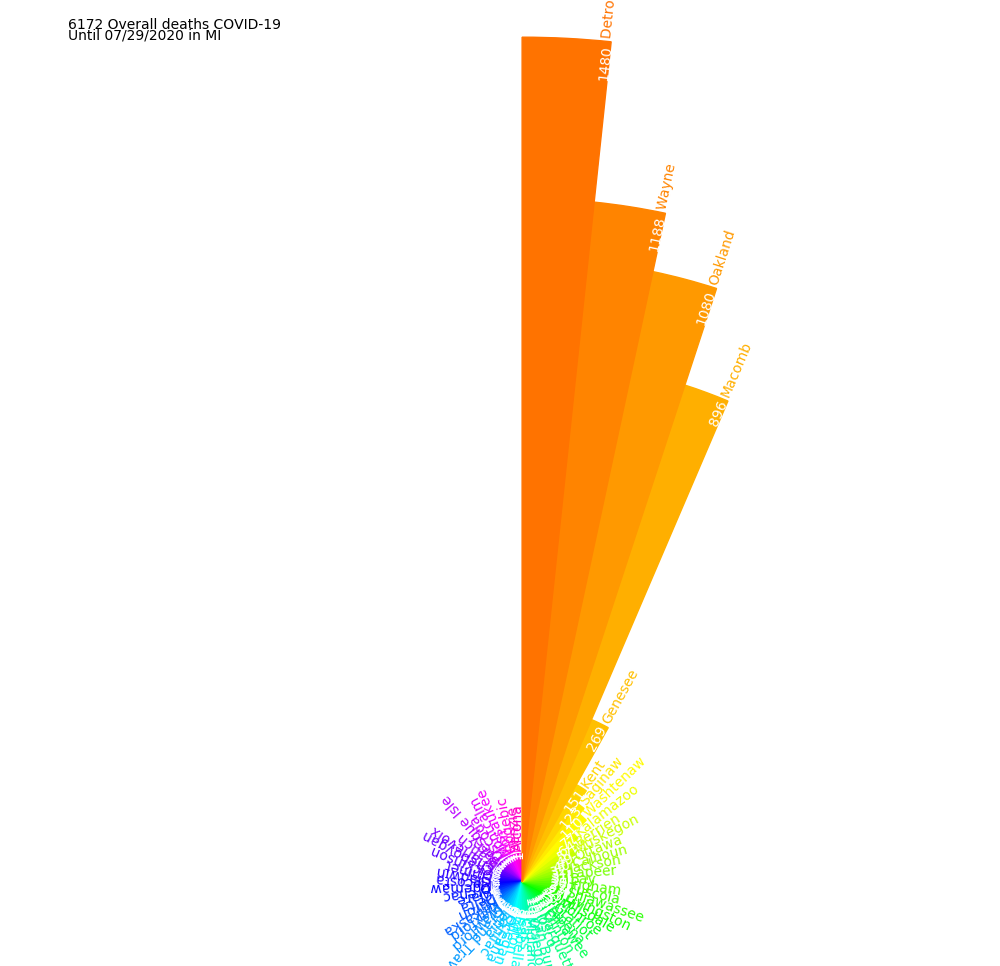
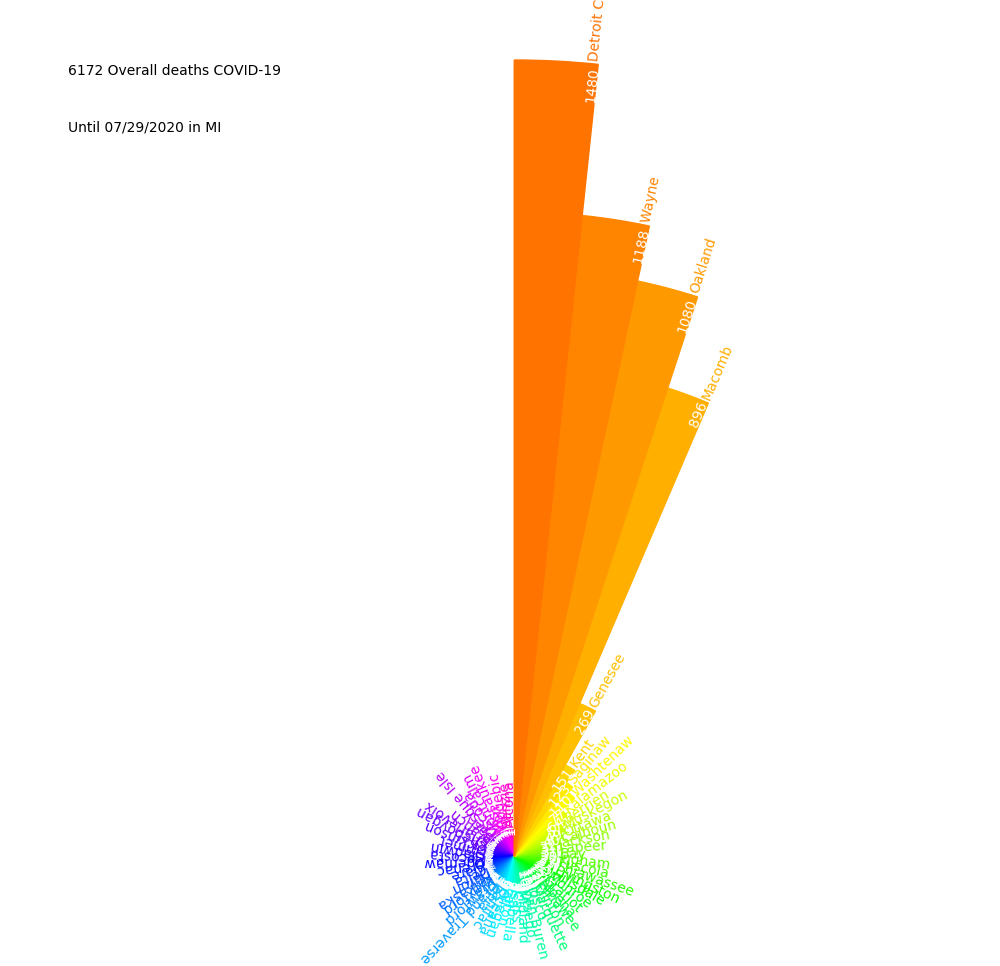
merge codes to predict, rainbow

Changed region(s): [[0.403, 0.0, 0.744, 1.0], [0.062, 0.0, 0.279, 0.0932], [0.062, 0.1242, 0.217, 0.1553]]

diff --git a/rainbowviz21.py b/rainbowviz21.py
@@ -69,6 +69,8 @@ class rainbowViz(object):
     #
     def infoShowRainbow(self, type_data, lst_data, save_file=None, date='', timeout=0):
         print('infoShowRainbow...', type_data)
+        if(len(lst_data) < 1): return
+        # prepare plot
         fig=plt.figure()
         ax=fig.add_subplot(111)
         fig.set_figheight(10)
@@ -80,7 +82,7 @@ class rainbowViz(object):
         # select colum
         if (type_data==3):col=2
         else : col=1
-        # clean list
+        # put into clean list
         l_d_clean = []
         l_max_v = 0
         l_counties = []
@@ -92,54 +94,65 @@ class rainbowViz(object):
             if(self.isRealCounty(a_case[0], l_counties)): pass
             else: continue
             l_d_clean.append(a_case)
-            if(int(a_case[col]) > l_max_v): l_max_v = int(a_case[col])
+            #if(int(a_case[col]) > l_max_v): l_max_v = int(a_case[col])
         n_total=0		
         for a_case in lst_data:
             if('Total' in a_case[0]): continue
             if('County' in a_case[0]): continue
             n_total += int(a_case[col])
-
-        l_max_v += 100 + 50  # base 50*2 + name 25*2
-        center_y = -(l_max_v/2 - 75)
-        l_max_v = (int(l_max_v / 50.0+1) * 50) / 2
         # sort list
         l_d_sort = sorted(l_d_clean, key=lambda k: int(k[col]))
         len_data = len(l_d_sort)
+        l_max_v = int(l_d_sort[len_data-1][col])
+        l_mid_v = int(l_d_sort[min(len_data/2+1, len_data-1)][col])
+        l_q1_v = int(l_d_sort[max(len_data/4, 0)][col])
+        l_q3_v = int(l_d_sort[max(len_data*3/4, 0)][col])
+        print('  1/4 values', l_q1_v, l_mid_v, l_q3_v, l_max_v)
+        center_y = -(l_max_v - l_mid_v) / 2
+        center_x = -(l_q3_v - l_q1_v) / 2
+
+        l_max_v += l_mid_v + 100 + 2*l_max_v/20  # base 50*2 + name 25*2
+        l_max_v = (int(float(l_max_v) / 50.0+1) * 50)  # round to 50
+        l_max_v /= 2
+        print('  l_max_v, center', l_max_v, center_x, center_y)
+
         cmap=plt.get_cmap("gist_rainbow")
         # draw list
         for ii in range( len(l_d_sort) ):
+            # draw a slice of rainbow
             l_value = int(l_d_sort[ii][col])
-            fov = Wedge((0, 0+center_y), l_value+50, 
+            fov = Wedge((0+center_x, 0+center_y), l_value+50, 
                 int(ii*360.0/len_data)+90, int((ii+1)*360.0/len_data+90), 
                 color=cmap(1.0-(float(ii)/len_data*0.9+0.0)), 
                 alpha=1.0)
             ax.add_artist(fov)
-            #
+            # draw county name
             theta = (int(ii*360.0/len_data)+90) / 180.0*math.pi
             radian = l_value+50 + 5
-            plt.text(radian*math.cos(theta), radian*math.sin(theta)+center_y, 
+            plt.text(radian*math.cos(theta)+center_x, radian*math.sin(theta)+center_y, 
                 l_d_sort[ii][0], rotation=int(ii*360.0/len_data)+90,
                 color=cmap(1.0-(float(ii)/len_data*0.9+0.0)), 
                 rotation_mode='anchor')
                 #horizontalalignment='center', verticalalignment='bottom')
+            # draw cases number
             if(l_value < 10): digi_len = 0
             elif(l_value < 100): digi_len = 1
             elif(l_value < 1000): digi_len = 2
             else: digi_len = 3
             radian = l_value+50 - 10 - digi_len*l_max_v/40
-            plt.text(radian*math.cos(theta), radian*math.sin(theta)+center_y, 
+            plt.text(radian*math.cos(theta)+center_x, radian*math.sin(theta)+center_y, 
                 '%d'%(l_value), rotation=int(ii*360.0/len_data)+90,
                 color='w', 
                 rotation_mode='anchor')
         if(type_data==1):
-            plt.text(-l_max_v+5, l_max_v-30, '%d Daily confirmed COVID-19'%(n_total))
-            plt.text(-l_max_v+5, l_max_v-60, 'On '+date + ' in '+self.state_name)
+            plt.text(-l_max_v+5, l_max_v*7/8, '%d Daily confirmed COVID-19'%(n_total))
+            plt.text(-l_max_v+5, l_max_v*6/8, 'On '+date + ' in '+self.state_name)
         elif type_data ==2:
-            plt.text(-l_max_v+10, l_max_v-140, '%d Overall confirmed COVID-19'%(n_total))
-            plt.text(-l_max_v+10, l_max_v-240, 'Until '+date + ' in '+self.state_name)
+            plt.text(-l_max_v+10, l_max_v*7/8, '%d Overall confirmed COVID-19'%(n_total))
+            plt.text(-l_max_v+10, l_max_v*6/8, 'Until '+date + ' in '+self.state_name)
         elif type_data ==3:
-            plt.text(-l_max_v+10, l_max_v-20, '%d Overall deaths COVID-19'%(n_total))
-            plt.text(-l_max_v+10, l_max_v-40, 'Until '+date + ' in '+self.state_name)
+            plt.text(-l_max_v+10, l_max_v*7/8, '%d Overall deaths COVID-19'%(n_total))
+            plt.text(-l_max_v+10, l_max_v*6/8, 'Until '+date + ' in '+self.state_name)
         plt.axis([-l_max_v, l_max_v, -l_max_v, l_max_v])
         fig.tight_layout()      
         ax.axis('off')  # get rid of the ticks and ticklabels

diff --git a/mapviz20.py b/mapviz20.py
@@ -247,8 +247,11 @@ class mapViz(object):
             x, y = m(lon2, lat2) 
             plt.text(x, y, a_county[3],fontsize=8, ha='center',va='center',color='k',rotation=a_county[10])
         # 55. draw list of counties
+        if(self.state_name == 'CT'): pos_zoom = 2.0
+        elif(self.state_name == 'MA'): pos_zoom = 2.0
+        else: pos_zoom = 1.0
         ii = 0
-        for a_case in l_cases_today:	
+        for a_case in l_cases_today:
             if('Total' in a_case[0]): continue
             if('County' in a_case[0]): continue
             isNext, lat_2, lon_2 = self.isNextList(ii, lat_1, lon_1)
@@ -256,32 +259,42 @@ class mapViz(object):
             if( self.getColorByCompare(a_case, l_last) ): nColor = 'g'
             else: nColor = 'y'
             # show name
-            lat2 -= 0.1
+            lat2 -= 0.1 / pos_zoom
             x, y = m(lon2, lat2) 
             plt.text(x, y, a_case[0],fontsize=8, ha='left',va='center',color=nColor)
             # show number
-            x, y = m(lon2 + 1.0, lat2) 
+            x, y = m(lon2 + 1.0 / pos_zoom, lat2) 
             plt.text(x, y, str(a_case[1]),fontsize=8, ha='left',va='center',color=nColor)
             ii += 1
-           
+
         # 58. draw title 
         if(l_type==1):
             lat2, lon2 = lat_1+float(self.l_state_config[11][1]), lon_1+float(self.l_state_config[11][2])
             x, y = m(lon2, lat2) 
             plt.text(x, y, '%d Daily confirmed COVID-19'%(n_total),fontsize=20, ha='left',va='center',color='g')
-            lat2 -= 0.2
+            lat2 -= 0.2 / pos_zoom
             x, y = m(lon2, lat2) 
             plt.text(x, y, 'On '+date + ' in '+self.state_name,fontsize=16, ha='left',va='center',color='g')
+        elif l_type ==2 and pos_zoom > 1.5:
+            lat2, lon2 = lat_1+float(self.l_state_config[11][1]), lon_1+float(self.l_state_config[11][2])
+            x, y = m(lon2, lat2) 
+            plt.text(x, y, '%d Overall COVID-19'%(n_total),fontsize=20, ha='left',va='center',color='g')
+            lat2 -= 0.2 / pos_zoom
+            x, y = m(lon2, lat2) 
+            plt.text(x, y, 'confirmed '+date ,fontsize=16, ha='left',va='center',color='g')
+            lat2 -= 0.2 / pos_zoom
+            x, y = m(lon2, lat2)
+            plt.text(x, y, ' in ' + self.state_name, fontsize=16, ha='left', va='center',color='g')
         elif l_type ==2:
             lat2, lon2 = lat_1+float(self.l_state_config[11][1]), lon_1+float(self.l_state_config[11][2])
             x, y = m(lon2, lat2) 
             plt.text(x, y, '%d Overall confirmed'%(n_total),fontsize=20, ha='left',va='center',color='g')
-            lat2 -= 0.2
+            lat2 -= 0.2 / pos_zoom
             x, y = m(lon2, lat2) 
             plt.text(x, y, 'COVID-19 Until '+date + ' in '+self.state_name,fontsize=16, ha='left',va='center',color='g')
         # 59. draw logo 
         lat2, lon2 = lat_1+float(self.l_state_config[12][1]), lon_1+float(self.l_state_config[12][2])
-        x, y = m(lon2, lat2) 
+        x, y = m(lon2, lat2)
         arr_lena = mpimg.imread('./doc/app_qrcode_logo.png')
         imagebox = OffsetImage(arr_lena)  # , zoom=0.15)
         ab = AnnotationBbox(imagebox, (x, y))
